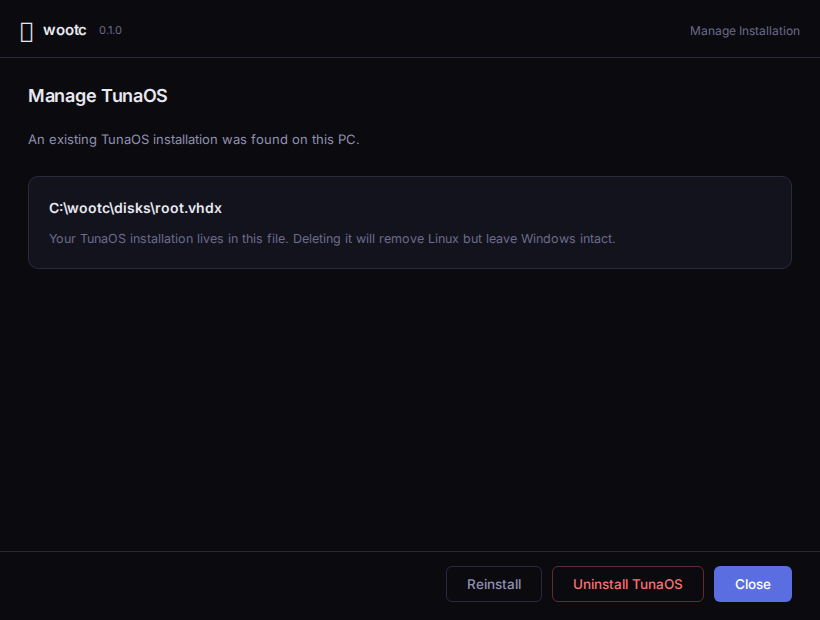
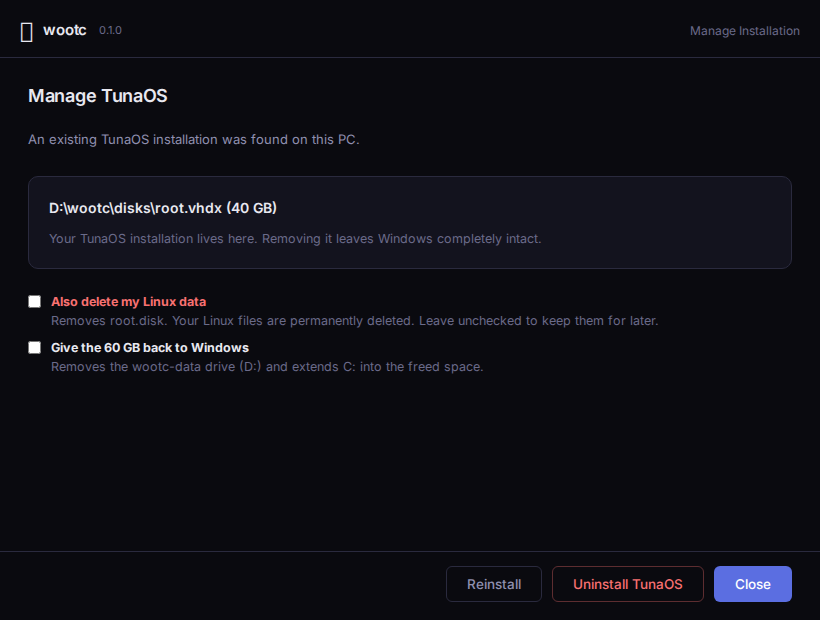
feat(gui): partition-aware uninstall panel (§5) — reversible by default
Control panel loads GetUninstallInfo, shows where root.disk lives + size,
and offers opt-in checkboxes: delete Linux data (default OFF — keep), and
'give the N GB back to Windows' when on a wootc-created volume (removes
the data partition, extends C:). confirmUninstall spells out exactly what
will/won't be removed and calls UninstallWith. 8/8 Playwright.

Changed region(s): [[0.0305, 0.4597, 0.7927, 0.521], [0.0305, 0.5516, 0.5793, 0.6129], [0.2744, 0.3065, 0.7622, 0.3984]]

diff --git a/app/frontend/src/main.js b/app/frontend/src/main.js
@@ -123,6 +123,9 @@ async function init() {
     if (!u.includes('dev')) state.config.username = 'james'; // placeholder
   } catch {}
 
+  if (existing) {
+    try { state.uninstallInfo = await GetUninstallInfo(); } catch { state.uninstallInfo = {}; }
+  }
   state.screen = existing ? 'control' : 'launchpad';
   render();
 }
@@ -428,13 +431,36 @@ function renderControlPanel() {
     <div class="screen-subtitle">An existing TunaOS installation was found on this PC.</div>
   `;
 
+  const u = state.uninstallInfo || {};
+  const path = u.diskPath || 'C:\\wootc\\disks\\root.vhdx';
+  const sizeStr = u.diskSizeGB ? ` (${Math.round(u.diskSizeGB)} GB)` : '';
   const card = el('div');
   card.style.cssText = 'background:var(--bg-card);border:1.5px solid var(--border);border-radius:var(--radius);padding:20px;display:flex;flex-direction:column;gap:12px;margin-top:8px';
   card.innerHTML = `
-    <div style="font-weight:600;font-size:14px">C:\\wootc\\disks\\root.vhdx</div>
-    <div style="font-size:12.5px;color:var(--text-muted)">Your TunaOS installation lives in this file. Deleting it will remove Linux but leave Windows intact.</div>
+    <div style="font-weight:600;font-size:14px">${path}${sizeStr}</div>
+    <div style="font-size:12.5px;color:var(--text-muted)">Your TunaOS installation lives here. Removing it leaves Windows completely intact.</div>
   `;
   screen.appendChild(card);
+
+  // Uninstall options (§5) — checkboxes drive UninstallWith.
+  state.uninstallOpts = state.uninstallOpts || { deleteRootDisk: false, removePartition: false };
+  const opts = el('div');
+  opts.style.cssText = 'display:flex;flex-direction:column;gap:8px;margin-top:6px';
+  const checkbox = (id, label, sub, danger) => {
+    const row = el('label');
+    row.style.cssText = 'display:flex;gap:10px;align-items:flex-start;cursor:pointer;font-size:12.5px';
+    row.innerHTML = `<input type="checkbox" ${state.uninstallOpts[id] ? 'checked' : ''} style="margin-top:2px">
+      <span><b style="${danger ? 'color:var(--danger)' : ''}">${label}</b><br><span style="color:var(--text-muted)">${sub}</span></span>`;
+    row.querySelector('input').onchange = (e) => { state.uninstallOpts[id] = e.target.checked; };
+    return row;
+  };
+  opts.appendChild(checkbox('deleteRootDisk', 'Also delete my Linux data',
+    'Removes root.disk. Your Linux files are permanently deleted. Leave unchecked to keep them for later.', true));
+  if (u.onDedicatedVol && u.reclaimGB) {
+    opts.appendChild(checkbox('removePartition', `Give the ${Math.round(u.reclaimGB)} GB back to Windows`,
+      `Removes the wootc-data drive (${u.storageDrive}:) and extends C: into the freed space.`, false));
+  }
+  screen.appendChild(opts);
 
   wrap.appendChild(screen);
 
@@ -672,9 +698,19 @@ function fmtSize(bytes) {
   return `${(bytes / (1024 * 1024 * 1024)).toFixed(1)} GB`;
 }
 
-function confirmUninstall() {
-  if (confirm('Remove the TunaOS boot entry? (root.vhdx will NOT be deleted — remove it manually from C:\\wootc\\disks\\)')) {
-    import('../wailsjs/go/main/App').then(({ Uninstall }) => Uninstall());
+async function confirmUninstall() {
+  const o = state.uninstallOpts || {};
+  let msg = 'Remove TunaOS?\n\nThis removes the boot entry, the ESP files, and the deployer files.';
+  if (o.deleteRootDisk) msg += '\n\n⚠ Your Linux data (root.disk) will be permanently deleted.';
+  else msg += '\n\nYour Linux data (root.disk) will be kept.';
+  if (o.removePartition) msg += '\n⚠ The wootc-data drive will be removed and its space returned to C:.';
+  if (!confirm(msg)) return;
+  try {
+    await UninstallWith({ deleteRootDisk: !!o.deleteRootDisk, removePartition: !!o.removePartition });
+    alert('TunaOS has been removed. Windows is unchanged.');
+    window.wails?.Quit?.();
+  } catch (e) {
+    alert('Uninstall hit a problem: ' + e);
   }
 }
 

diff --git a/tests/gui/gui.spec.js b/tests/gui/gui.spec.js
@@ -79,9 +79,15 @@ test('installer — done screen', async ({ page }) => {
   await shot(page, '04-done');
 });
 
-test('control panel — existing install', async ({ page }) => {
-  await boot(page, { mode: 'installer', images: IMAGES, sysinfo: SYSINFO, existing: true });
+test('control panel — partition-aware uninstall options', async ({ page }) => {
+  await boot(page, { mode: 'installer', images: IMAGES, sysinfo: SYSINFO, existing: true,
+    uninstall: { found: true, storageDrive: 'D', diskPath: 'D:\\wootc\\disks\\root.vhdx',
+      diskSizeGB: 40, onDedicatedVol: true, reclaimGB: 60 } });
   await expect(page.locator('.screen-title')).toContainText('Manage TunaOS');
+  // Reversible by default: keeping data is the unchecked default.
+  await expect(page.getByText('Also delete my Linux data')).toBeVisible();
+  // Partition-aware option appears for a wootc-created volume.
+  await expect(page.getByText(/Give the 60 GB back to Windows/)).toBeVisible();
   await shot(page, '05-control-panel');
 });
 